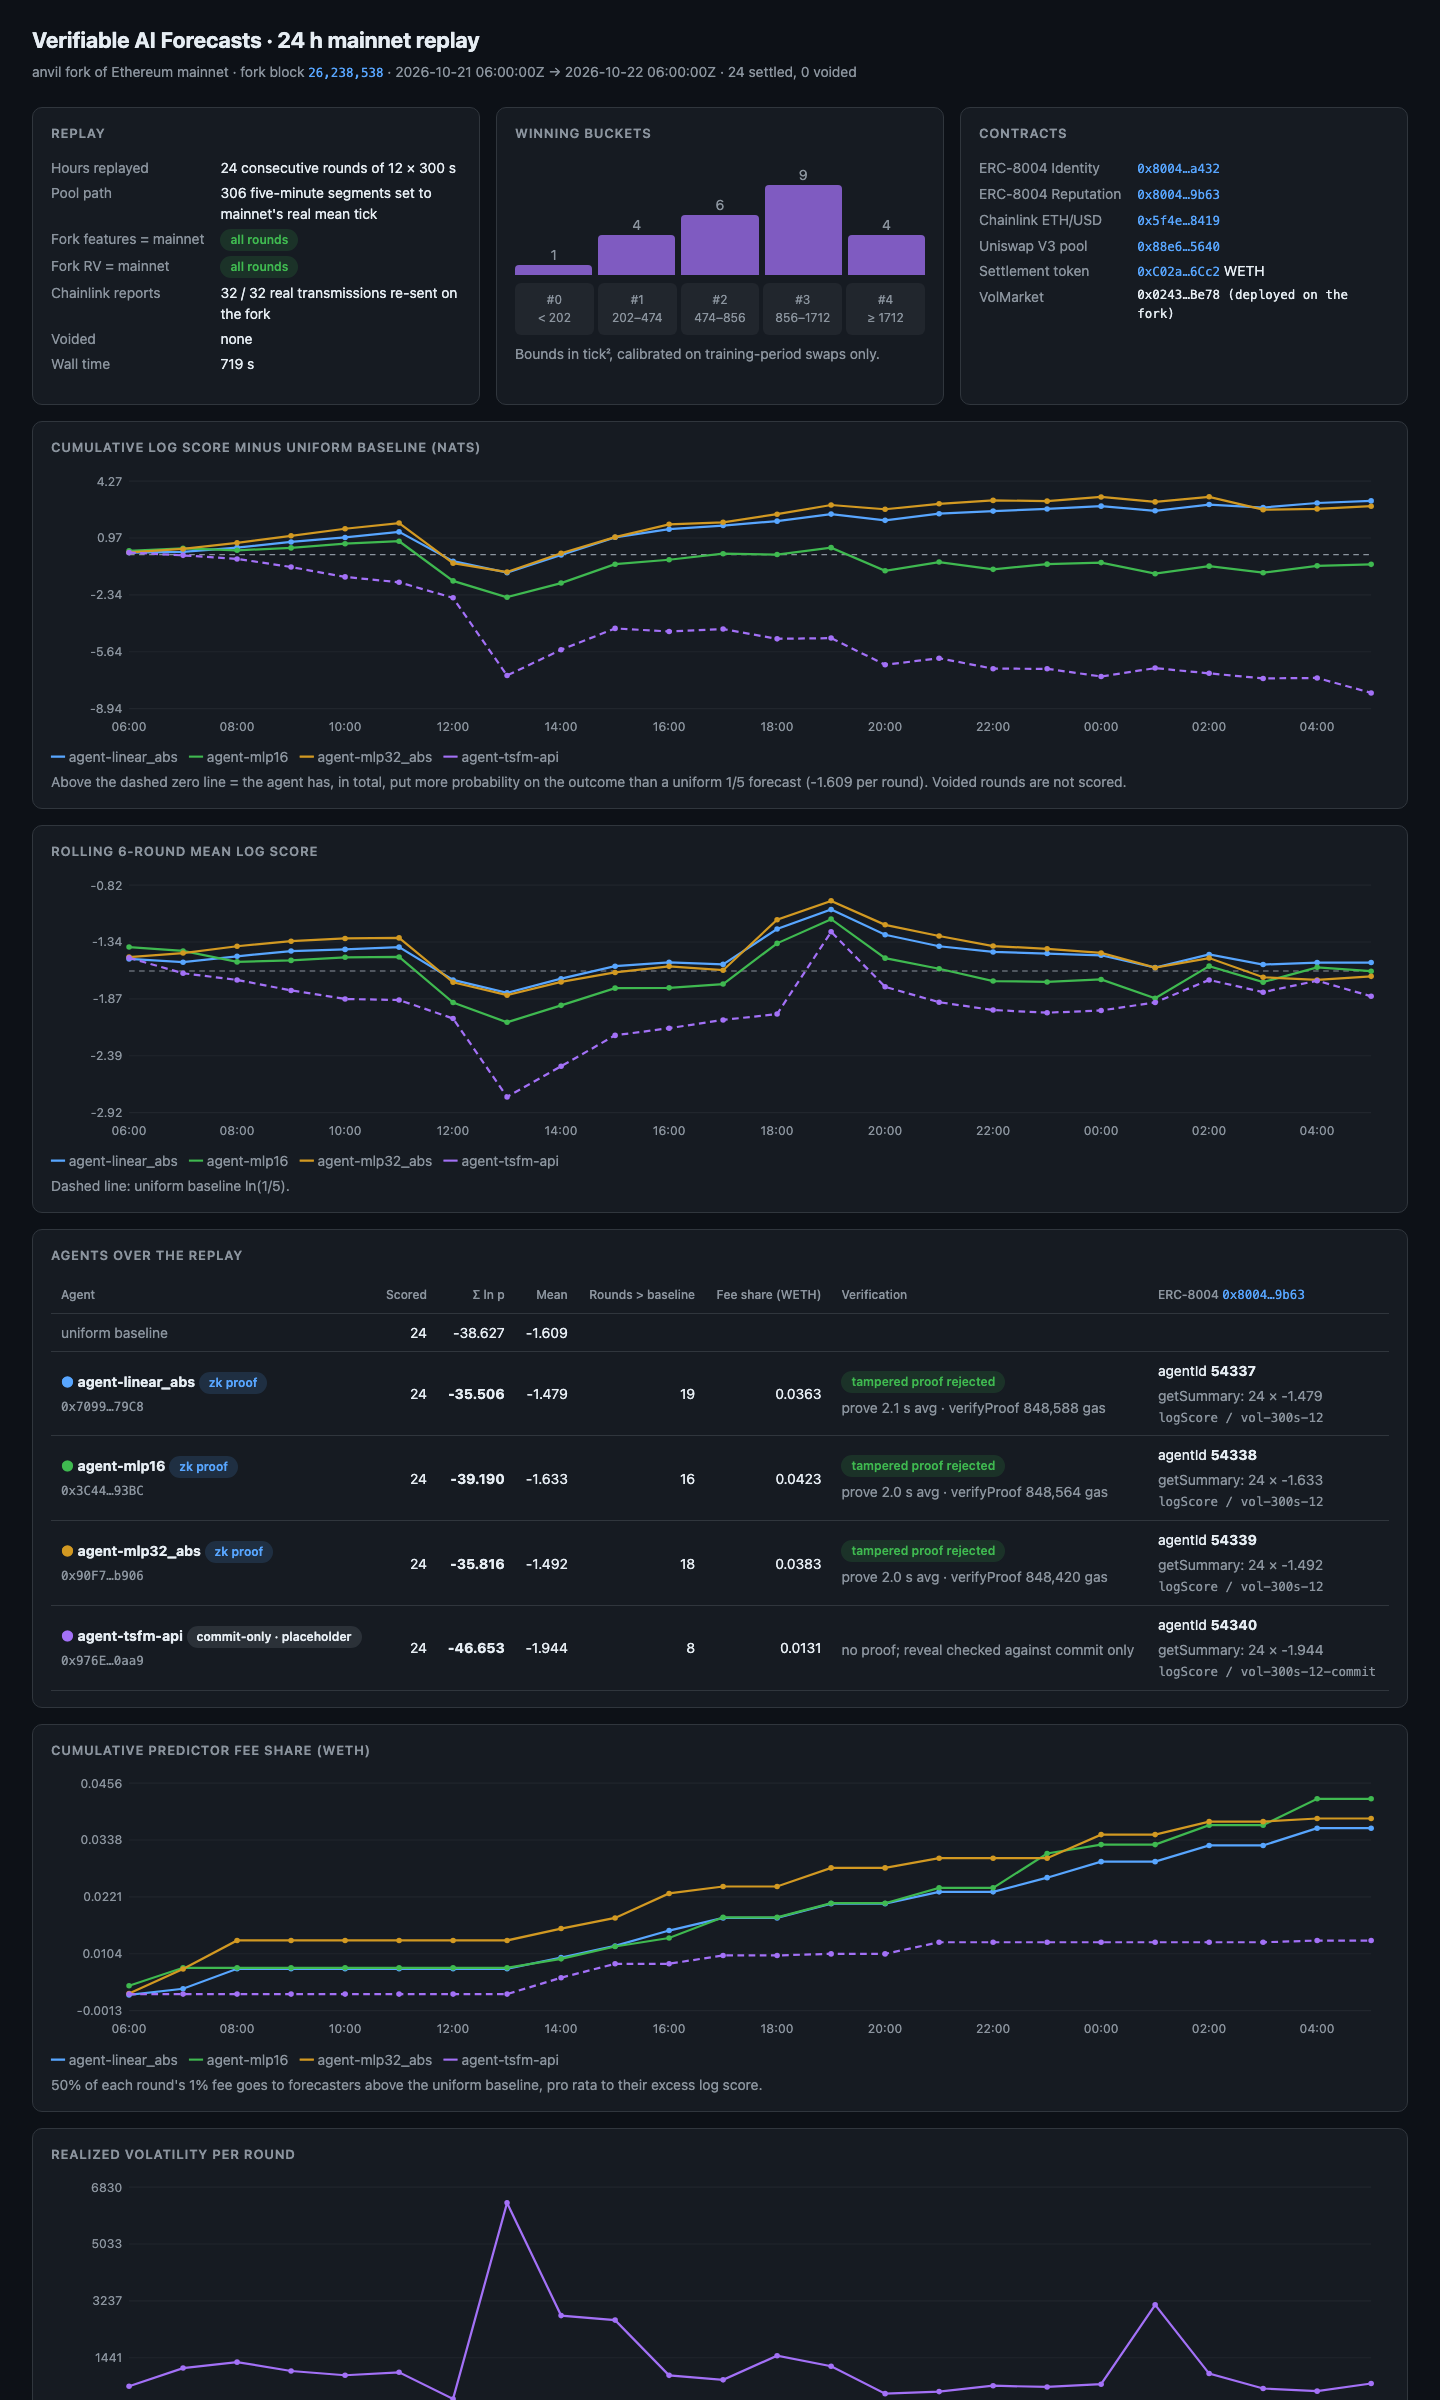
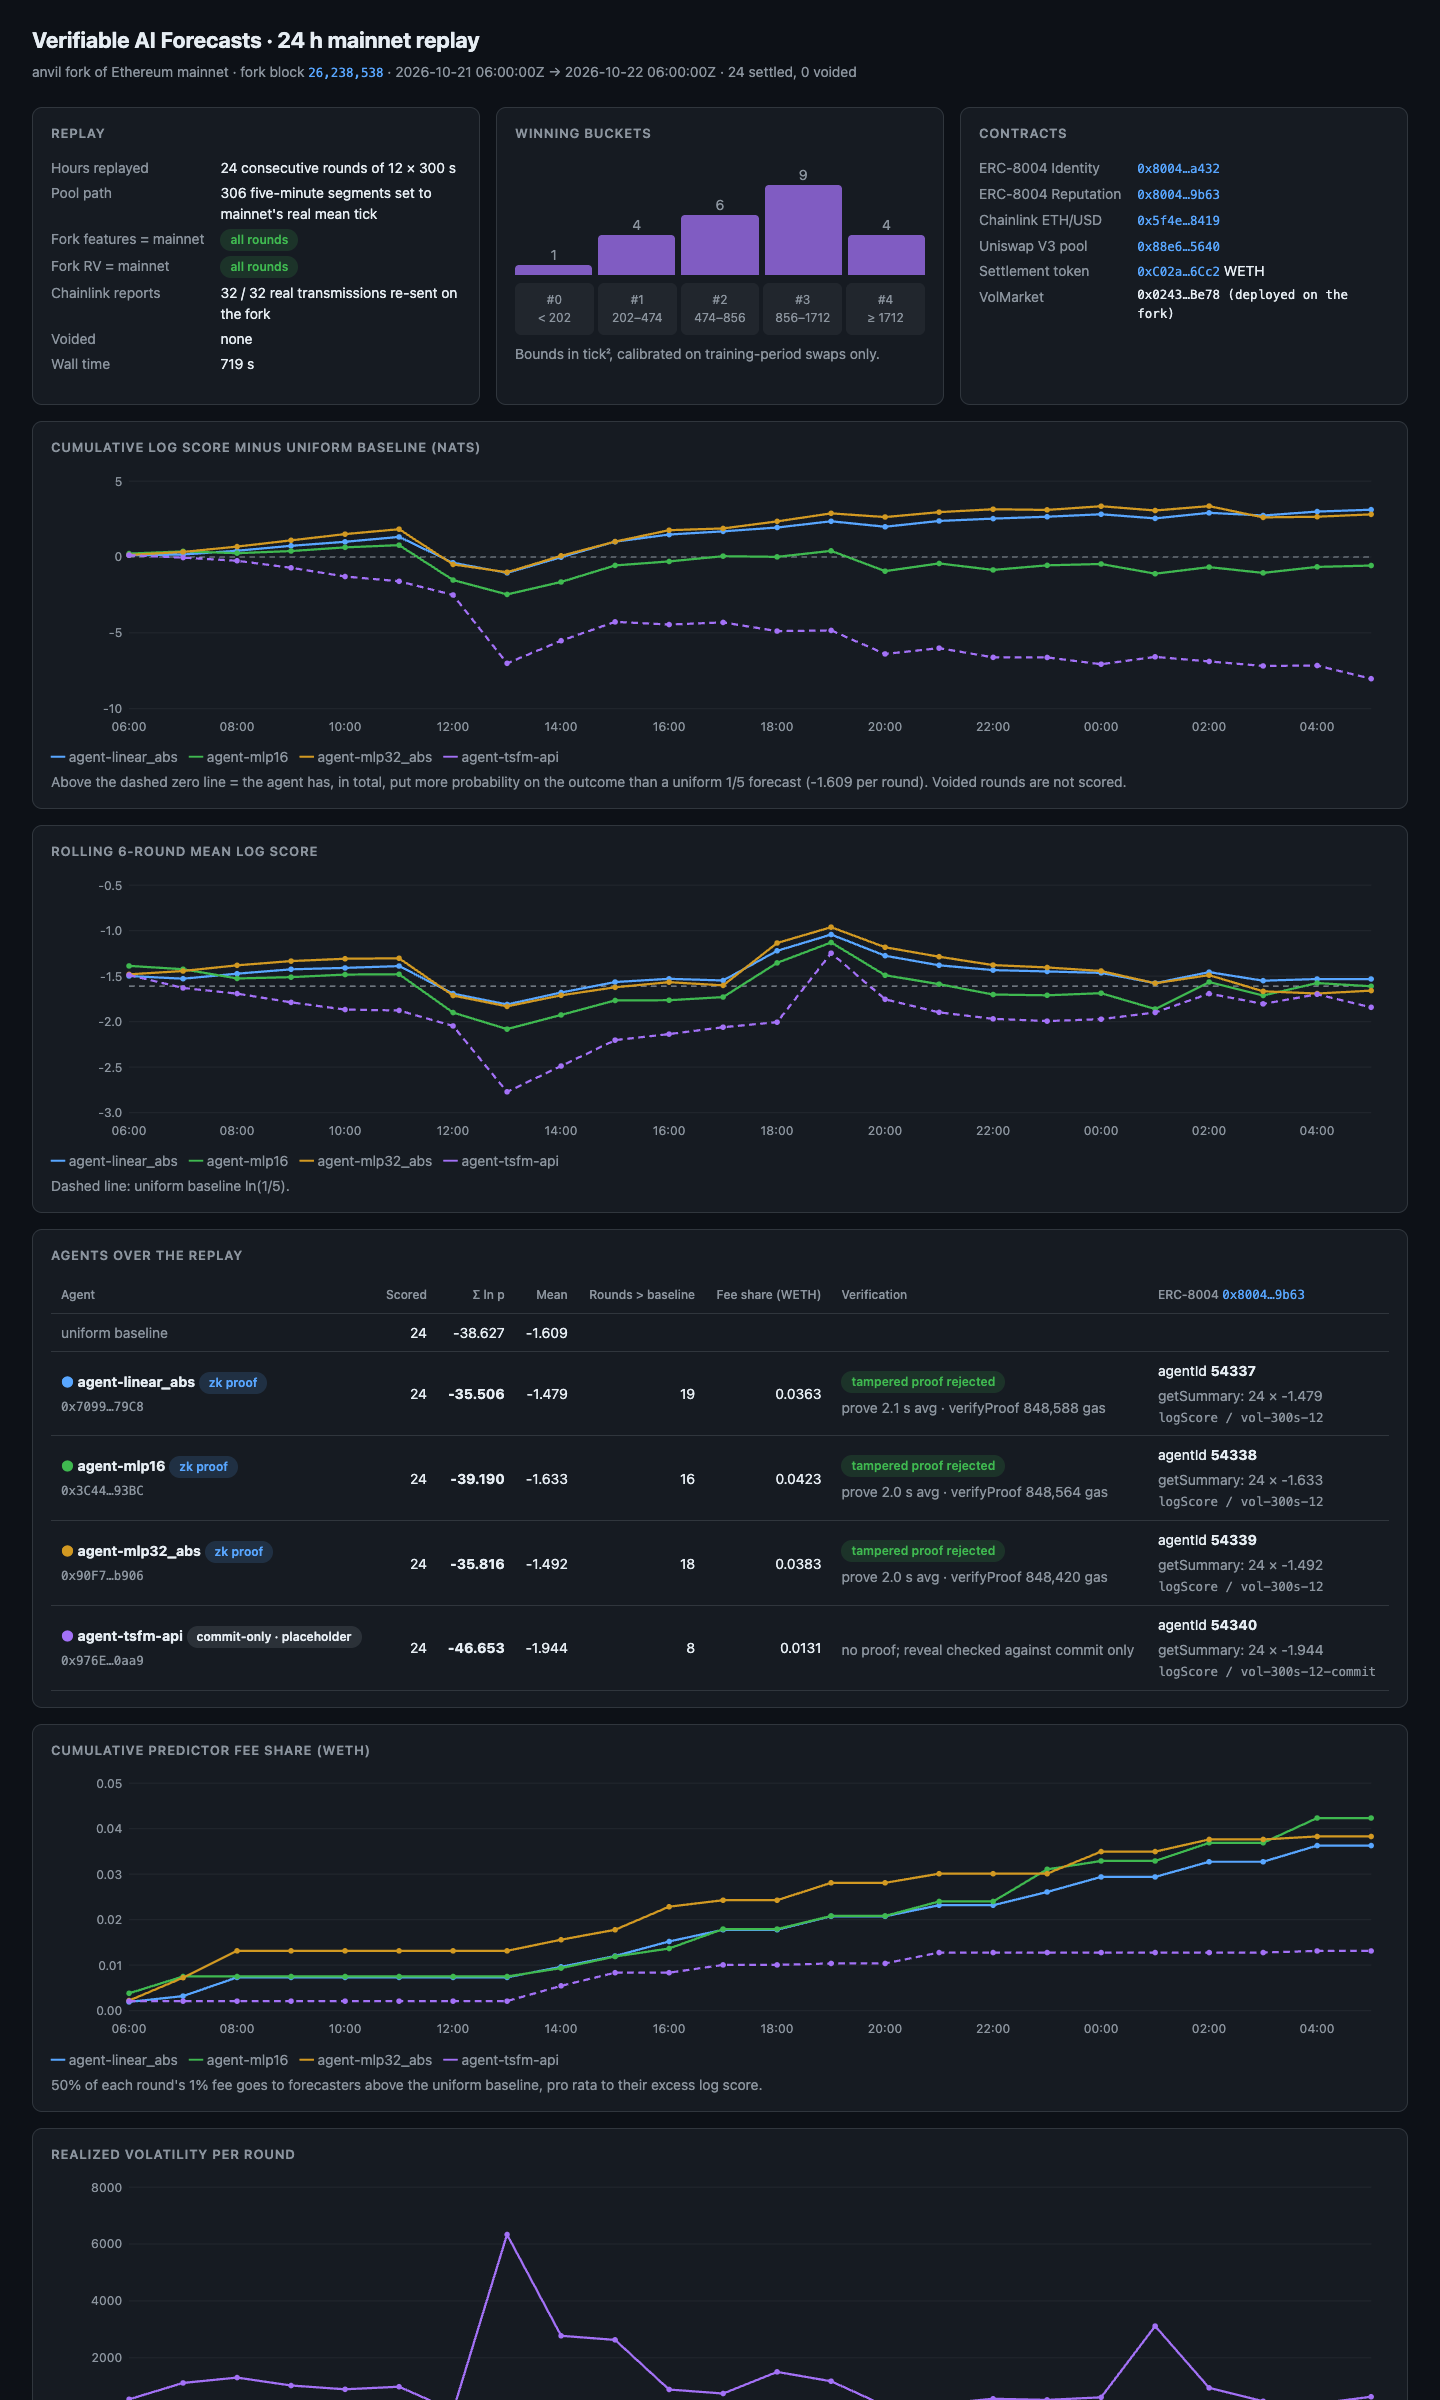
chore: auto-evolve milestone Stage-3 completed (Replay-view line charts get readable, truthful axes: lineChart (dashboard/index.html:213-240) uses 1/2/5x10^n tick steps with bounds rounded outward and decimals derived from the step; call sites pass axis semantics (RV and cumulative fee share non-neg
Engine: goal
Evidence: node docs/.local/probes/ticks_probe.mjs :: 20 -> 0 (target 0, met)
Waivers: 0
Macro-ID: macro-1792687243-35751

diff --git a/dashboard/index.html b/dashboard/index.html
@@ -211,18 +211,27 @@ function render({ data: d, src }) {
     `Data: ${src} · generated ${d.generated_at ? new Date(d.generated_at * 1000).toISOString() : "?"} · read-only view, no wallet, no writes.`;
 }
 
-function lineChart(series, labels, { zero = null, fmt = (v) => v.toFixed(2), H = 240 } = {}) {
+// min / max bound the axis, never the data, and only when every value already respects them.
+function lineChart(series, labels, { zero = null, fmt = null, tip = null, H = 240, min = null, max = null } = {}) {
   const vals = series.flatMap((s) => s.values).filter((v) => v != null).concat(zero ?? []);
-  let lo = Math.min(...vals), hi = Math.max(...vals);
+  const dmin = Math.min(...vals), dmax = Math.max(...vals);
+  let lo = dmin, hi = dmax;
   if (hi === lo) { hi += 1; lo -= 1; }
-  const pad = (hi - lo) * 0.08; lo -= pad; hi += pad;
+  if (min != null && dmin >= min) lo = Math.max(lo, min);
+  if (max != null && dmax <= max) hi = Math.min(hi, max);
+  const raw = (hi - lo) / 5, mag = 10 ** Math.floor(Math.log10(raw));
+  const st = [1, 2, 5, 10].map((k) => k * mag).find((k) => k >= raw * (1 - 1e-9));
+  const dp = Math.max(0, -Math.floor(Math.log10(st) + 1e-9));
+  const k0 = Math.floor(lo / st + 1e-9), k1 = Math.ceil(hi / st - 1e-9);
+  lo = k0 * st; hi = k1 * st;
+  const ticks = Array.from({ length: k1 - k0 + 1 }, (_, i) => Number(((k0 + i) * st).toFixed(dp)) || 0);
+  const axisFmt = fmt ?? ((v) => v.toFixed(dp)), tipFmt = tip ?? fmt ?? ((v) => v.toFixed(Math.max(2, dp + 2)));
   const W = 1200, L = 70, R = 16, T = 10, B = 26;
   const n = labels.length;
   const x = (i) => L + (n === 1 ? (W - L - R) / 2 : i * (W - L - R) / (n - 1));
   const y = (v) => T + (hi - v) * (H - T - B) / (hi - lo);
-  const ticks = [0, 1, 2, 3, 4].map((k) => lo + (hi - lo) * k / 4);
   const grid = ticks.map((v) => `<line x1="${L}" x2="${W - R}" y1="${y(v)}" y2="${y(v)}" stroke="#21262d"/>
-    <text x="${L - 6}" y="${y(v) + 4}" text-anchor="end">${fmt(v)}</text>`).join("");
+    <text x="${L - 6}" y="${y(v) + 4}" text-anchor="end">${axisFmt(v)}</text>`).join("");
   const step = Math.max(1, Math.ceil(n / 12));
   const xl = labels.map((t, i) => i % step ? "" : `<text x="${x(i)}" y="${H - 6}" text-anchor="middle">${t}</text>`).join("");
   const lines = series.map((s) => {
@@ -231,7 +240,7 @@ function lineChart(series, labels, { zero = null, fmt = (v) => v.toFixed(2), H =
       if (v == null) { pen = false; return; }
       d += `${pen ? "L" : "M"}${x(i).toFixed(1)},${y(v).toFixed(1)}`; pen = true;
     });
-    const dots = s.values.map((v, i) => v == null ? "" : `<circle cx="${x(i)}" cy="${y(v)}" r="2.5" fill="${s.color}"><title>${s.name} · ${labels[i]}: ${fmt(v)}</title></circle>`).join("");
+    const dots = s.values.map((v, i) => v == null ? "" : `<circle cx="${x(i)}" cy="${y(v)}" r="2.5" fill="${s.color}"><title>${s.name} · ${labels[i]}: ${tipFmt(v)}</title></circle>`).join("");
     return `<path d="${d}" fill="none" stroke="${s.color}" stroke-width="${s.width ?? 2}" ${s.dash ? `stroke-dasharray="${s.dash}"` : ""}/>${dots}`;
   }).join("");
   const zl = zero != null ? `<line x1="${L}" x2="${W - R}" y1="${y(zero)}" y2="${y(zero)}" stroke="#8b949e" stroke-dasharray="5 4"/>` : "";
@@ -289,17 +298,17 @@ function renderReplay({ data: d, src }) {
   });
   const roll = agents.map((a) => ({ name: a.agent, color: a.color, dash: isZk(a) ? null : "6 4",
     values: rolling(rounds.map((r) => scoreOf(r, a))) }));
-  const rollCard = card(`Rolling ${W}-round mean log score`, lineChart(roll, labels, { zero: uniform }) +
+  const rollCard = card(`Rolling ${W}-round mean log score`, lineChart(roll, labels, { zero: uniform, max: 0 }) +
     `<div class="sub">Dashed line: uniform baseline ln(1/5).</div>`, "wide");
 
   const rvSeries = [{ name: "realized vol (tick²)", color: "#a371f7", values: rounds.map((r) => r.outcome.realized_vol ?? r.real_realized_vol) }];
   const rvCard = card("Realized volatility per round",
-    lineChart(rvSeries, labels, { fmt: (v) => v.toFixed(0) }) +
+    lineChart(rvSeries, labels, { min: 0, tip: (v) => v.toFixed(0) }) +
     `<div class="sub">Bucket bounds ${p.bounds.join(" / ")} tick². RV from the contract's settle, equal to the mainnet recompute.</div>`, "wide");
 
   const rewards = agents.map((a) => ({ name: a.agent, color: a.color, dash: isZk(a) ? null : "6 4",
     values: cumulative(rounds.map((r) => Number(BigInt(r.agents[a.agent]?.predictor_reward_wei ?? "0")) / 1e18)) }));
-  const rewardCard = card("Cumulative predictor fee share (WETH)", lineChart(rewards, labels, { fmt: (v) => v.toFixed(4) }) +
+  const rewardCard = card("Cumulative predictor fee share (WETH)", lineChart(rewards, labels, { min: 0 }) +
     `<div class="sub">${p.predictor_share_bps / 100}% of each round's ${p.fee_bps / 100}% fee goes to forecasters above the uniform
     baseline, pro rata to their excess log score.</div>`, "wide");
 
